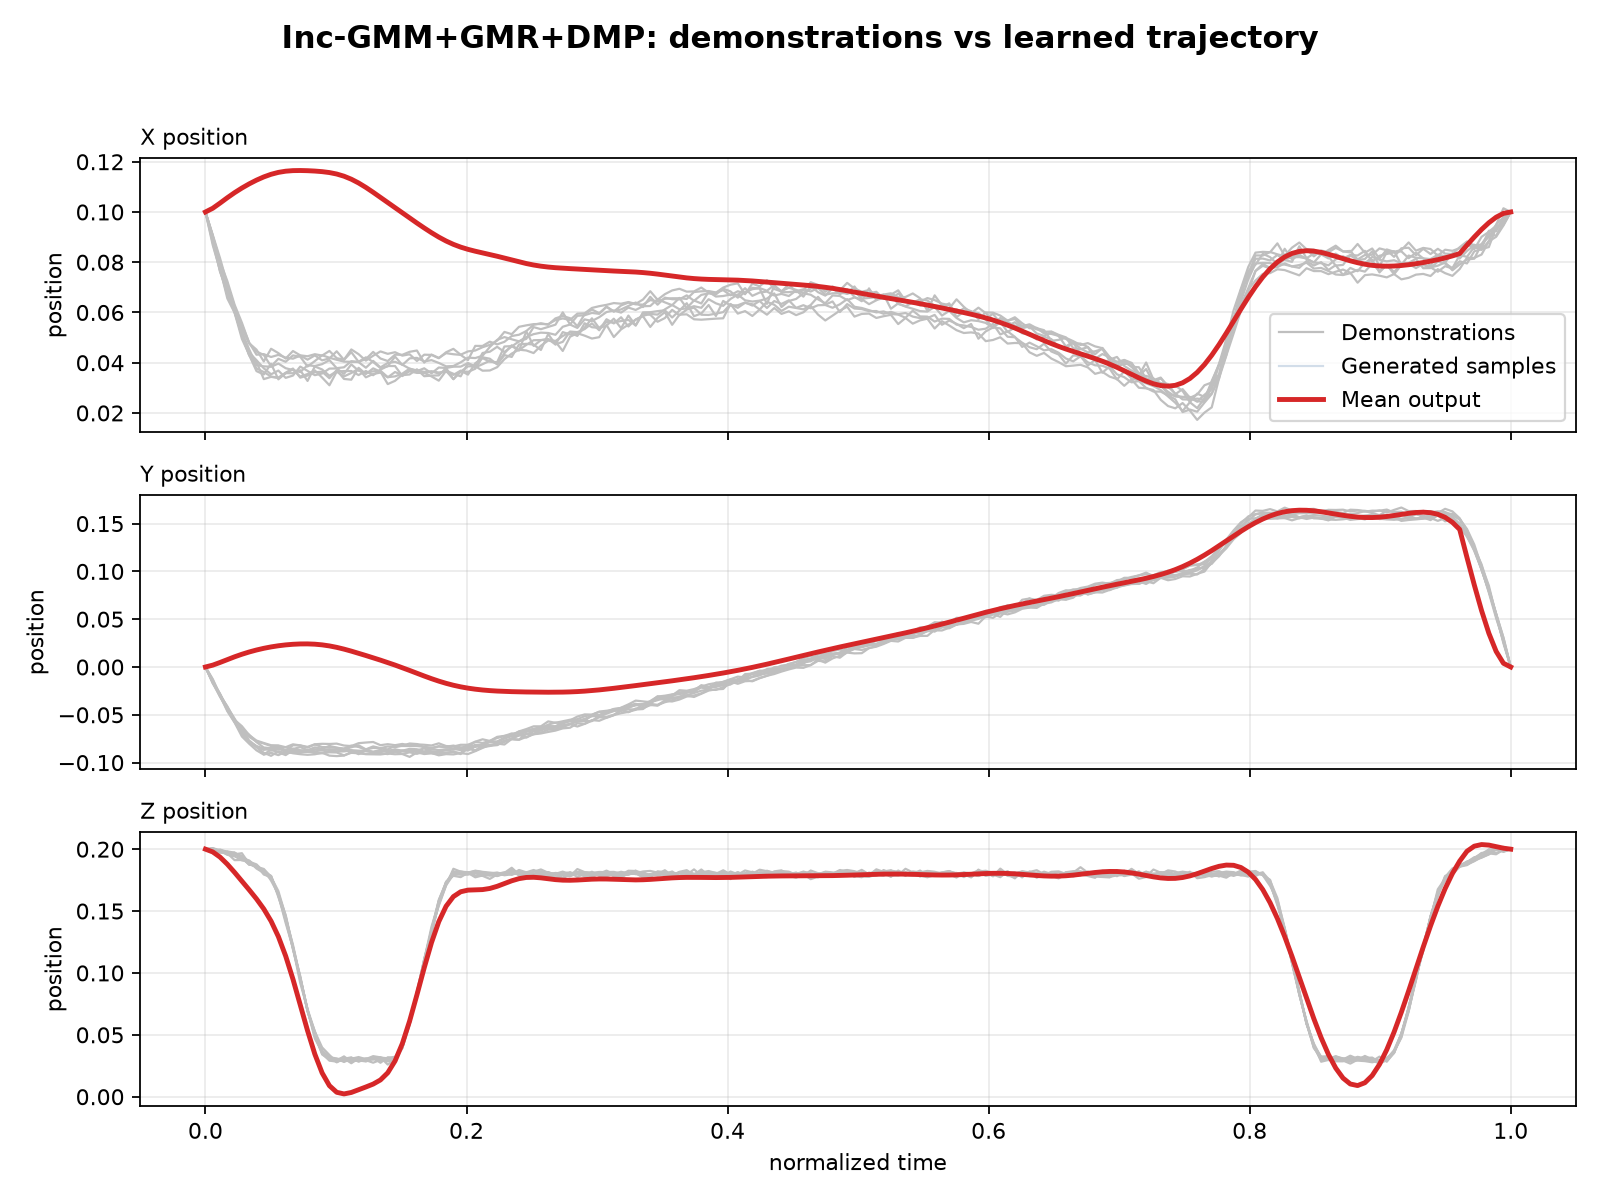
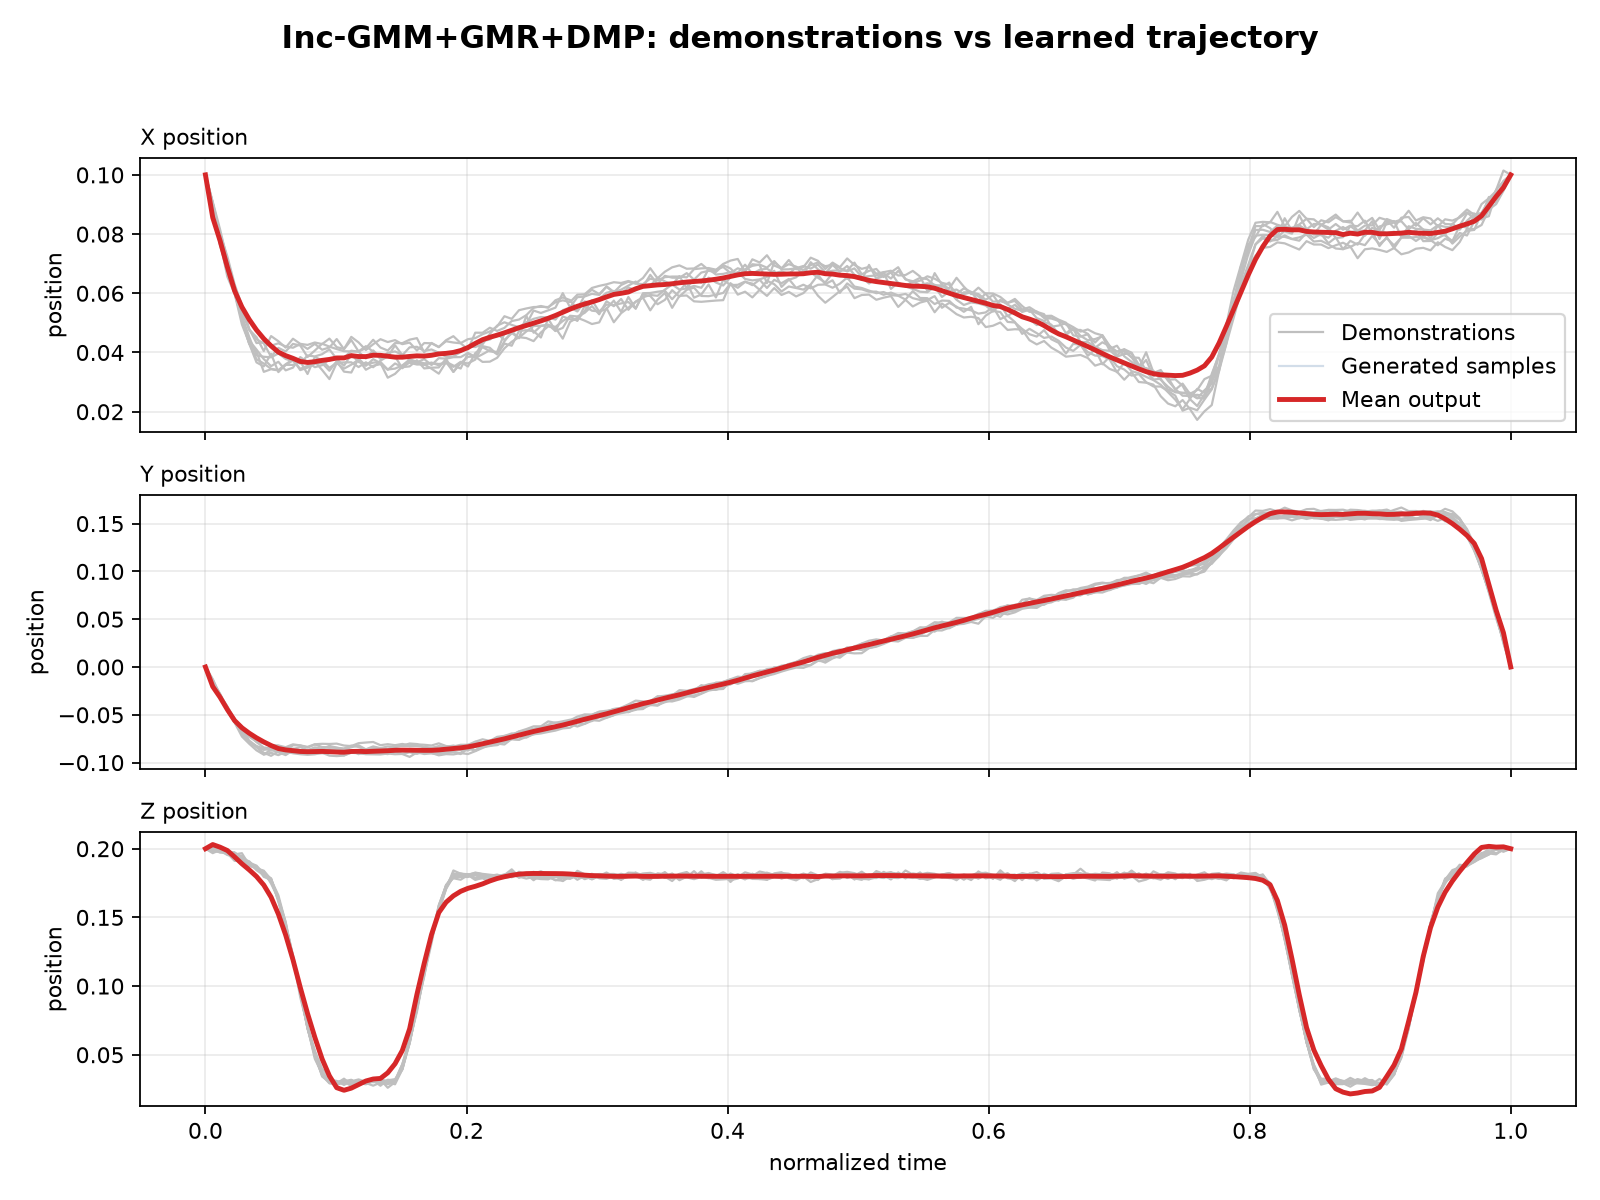
handle zero-displacement DMP dimensions

diff --git a/src/dobot_algorithms/primitives/dmp.py b/src/dobot_algorithms/primitives/dmp.py
@@ -44,6 +44,7 @@ class DiscreteDMP(PrimitiveBase):
         self.goal_: np.ndarray | None = None
         self.demo_mean_: np.ndarray | None = None
         self.n_dims: int | None = None
+        self.zero_displacement_: np.ndarray | None = None
 
     def fit(self, trajectories: list[np.ndarray]) -> DiscreteDMP:
         if not trajectories:
@@ -56,6 +57,7 @@ class DiscreteDMP(PrimitiveBase):
         self.demo_mean_ = np.mean(np.stack(normalized), axis=0)
         self.y0_ = self.demo_mean_[0].copy()
         self.goal_ = self.demo_mean_[-1].copy()
+        self.zero_displacement_ = np.abs(self.goal_ - self.y0_) < 1e-6
         self.weights_ = self._fit_forcing_terms(self.demo_mean_)
         return self
 
@@ -79,6 +81,11 @@ class DiscreteDMP(PrimitiveBase):
             dy = dy + ddy * dt
             y = y + dy * dt
         trajectory = self._smooth_goal_transition(trajectory)
+        # A DMP's spatial scaling is undefined when start and goal coincide.
+        # Preserve the learned shape for those dimensions instead of integrating
+        # an arbitrarily scaled forcing term that can create overshoot.
+        if self.zero_displacement_ is not None and np.any(self.zero_displacement_):
+            trajectory[:, self.zero_displacement_] = self.demo_mean_[:, self.zero_displacement_]
         if self.n_dims is not None and self.n_dims >= 4:
             trajectory[:, 3] = np.clip(trajectory[:, 3], 0.0, 1.0)
         return trajectory

diff --git a/tests/test_movement_primitives.py b/tests/test_movement_primitives.py
@@ -8,6 +8,7 @@ from dobot_algorithms.movement_primitives import (
     IncGMMGMRDMP,
 )
 from dobot_algorithms.evaluation import evaluate_reference_trajectory, format_trajectory_metrics
+from dobot_algorithms.primitives.dmp import DiscreteDMP
 
 
 def _palletizing_demos():
@@ -72,3 +73,11 @@ def test_trajectory_metrics_handle_constant_dimensions():
     assert np.isnan(metrics.pearson[2])
     assert "Pearson" in summary
     assert "RMSE" in summary
+
+
+def test_dmp_preserves_zero_displacement_dimension_without_overshoot():
+    phase = np.linspace(0.0, 1.0, 40)
+    reference = np.column_stack([0.1 + 0.03 * np.sin(2 * np.pi * phase), phase])
+    rollout = DiscreteDMP(n_time_steps=40, n_basis=12).fit([reference]).dynamic_rollout()
+
+    np.testing.assert_allclose(rollout[:, 0], reference[:, 0])

diff --git a/models/algorithm_metrics.md b/models/algorithm_metrics.md
@@ -2,8 +2,8 @@
 
 | Algorithm | Pearson Mean | RMSE Mean | Pearson X | Pearson Y | Pearson Z | Pearson Gripper | RMSE X | RMSE Y | RMSE Z | RMSE Gripper |
 |---|---:|---:|---:|---:|---:|---:|---:|---:|---:|---:|
-| GMM+GMR+DMP | 0.7483 | 0.0450 | 0.1918 | 0.8924 | 0.9277 | 0.9810 | 0.0276 | 0.0456 | 0.0217 | 0.0851 |
-| Inc-GMM+GMR+DMP | 0.7729 | 0.0296 | 0.1807 | 0.9279 | 0.9857 | 0.9971 | 0.0310 | 0.0438 | 0.0108 | 0.0326 |
+| GMM+GMR+DMP | 0.9727 | 0.0204 | 0.9349 | 0.9939 | 0.9668 | 0.9950 | 0.0069 | 0.0100 | 0.0168 | 0.0480 |
+| Inc-GMM+GMR+DMP | 0.9958 | 0.0044 | 0.9874 | 0.9994 | 0.9964 | 0.9999 | 0.0040 | 0.0039 | 0.0047 | 0.0051 |
 | GMM+GMR+Segmented DMP | 0.9605 | 0.0256 | 0.9180 | 0.9708 | 0.9604 | 0.9929 | 0.0075 | 0.0214 | 0.0183 | 0.0550 |
 | BGMM+GMR+ProMP | 0.9507 | 0.0375 | 0.9328 | 0.9936 | 0.9049 | 0.9714 | 0.0072 | 0.0104 | 0.0282 | 0.1043 |
 

diff --git a/models/suction_arm/stage_metrics.md b/models/suction_arm/stage_metrics.md
@@ -3,9 +3,9 @@
 | Stage | Algorithm | Pearson Mean | RMSE Mean |
 |---|---|---:|---:|
 | GMR | GMM+GMR+DMP | 0.9727 | 0.0204 |
-| Primitive | GMM+GMR+DMP | 0.7483 | 0.0450 |
+| Primitive | GMM+GMR+DMP | 0.9727 | 0.0204 |
 | GMR | Inc-GMM+GMR+DMP | 0.9958 | 0.0044 |
-| Primitive | Inc-GMM+GMR+DMP | 0.7729 | 0.0296 |
+| Primitive | Inc-GMM+GMR+DMP | 0.9958 | 0.0044 |
 | GMR | GMM+GMR+Segmented DMP | 0.9727 | 0.0204 |
 | Primitive | GMM+GMR+Segmented DMP | 0.9605 | 0.0256 |
 | GMR | BGMM+GMR+ProMP | 0.9470 | 0.0380 |
